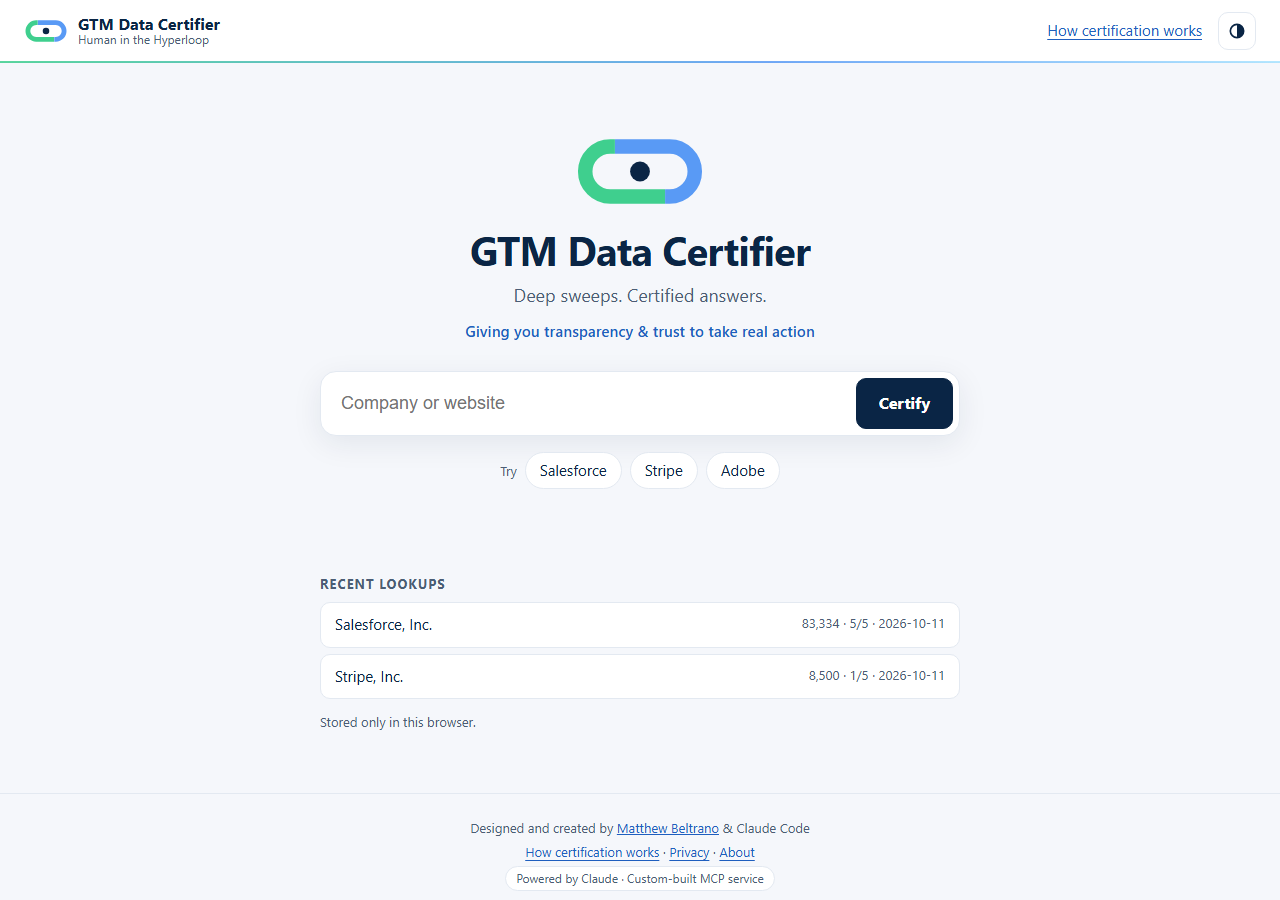
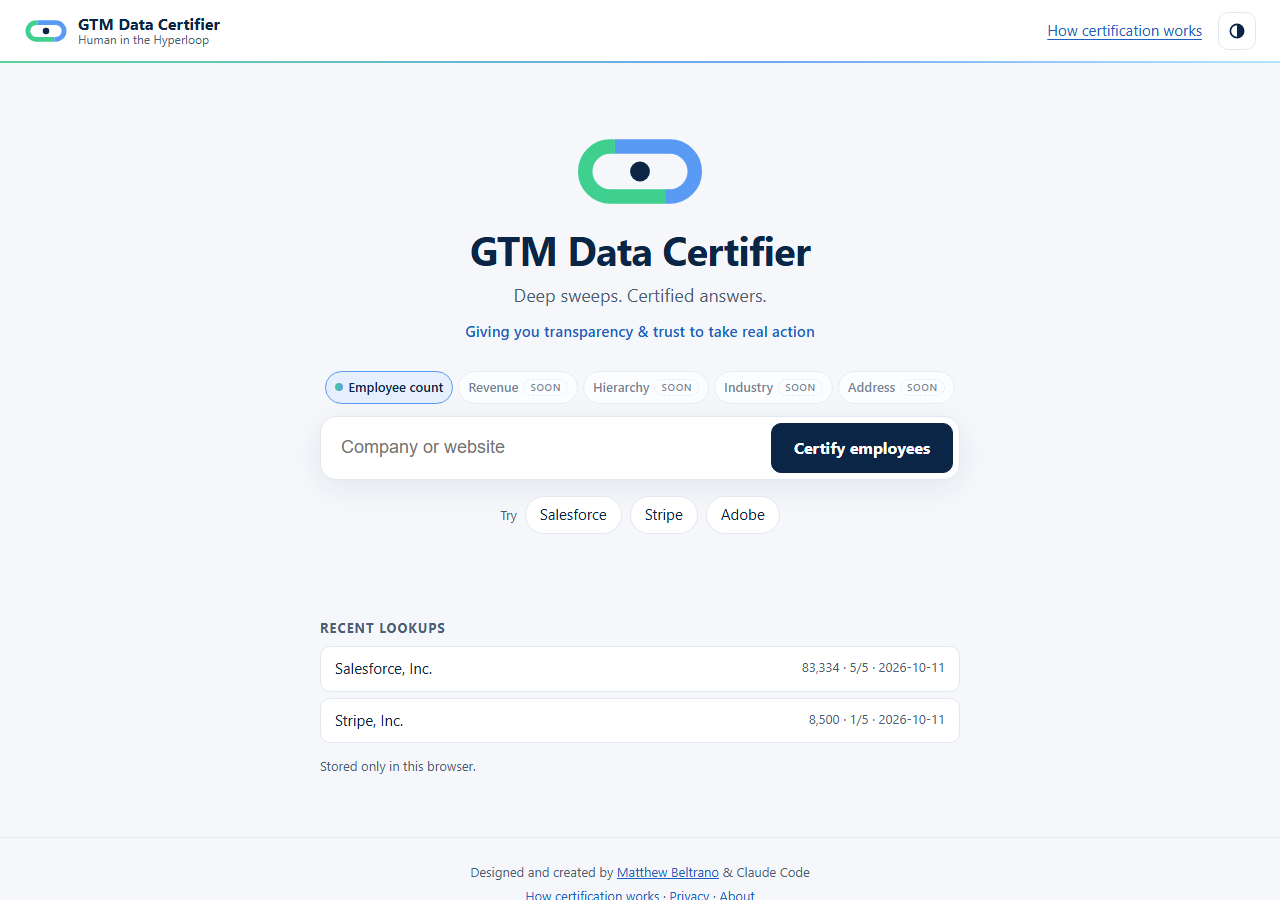
Fix extraction schema too large for the API; confirm-page progress; employee-count framing
- document_type is a plain string (normalized in code) and publisher comes
  from the URL: the 17-value enum pushed the structured-output grammar over
  the API limit, failing every lookup (400 'compiled grammar is too large')
- Offline schema-size guard and a live compile test
- Confirm page: 'Finding ...' progress, latest search wins, no double submits
- Home: Employee count pill (Revenue/Hierarchy/Industry/Address soon),
  'Certify employees' button
- Back after Search another company restores the last result

diff --git a/src/certifier/static/app.js b/src/certifier/static/app.js
@@ -45,8 +45,8 @@
   window.addEventListener("popstate", function (e) {
     var st = e.state || { view: "home" };
     cancelLookup();
-    if (st.view === "confirm" && state.candidates) { renderCandidates(state.candidates); show("confirm"); }
-    else if (st.view === "result" && st.qid && state.current && state.current.query_id === st.qid) showResult(state.current, true);
+    if (st.view === "confirm" && state.candidates) { found(state.query, state.candidates); show("confirm"); }
+    else if (st.view === "result" && st.qid && state.last && state.last.query_id === st.qid) showResult(state.last, true);
     else if (st.view === "result" && st.qid && st.qid !== "demo") openStored(st.qid, true);
     else show("home");
   });
@@ -58,6 +58,7 @@
   function reset(keepQuery) {
     cancelLookup();
     state.current = null; state.candidate = null; state.candidates = null; state.rating = null;
+    state.searchSeq = (state.searchSeq || 0) + 1; state.searching = null; clearInterval(findTimer);
     $("q").value = keepQuery ? state.query : "";
     $("candidates").textContent = ""; $("stages").textContent = ""; $("result-card").textContent = "";
     say("home-status", ""); say("result-status", "");
@@ -114,6 +115,10 @@
   }
 
   // ---------- home ----------
+  // Only employee count is certified today; the other metrics say so instead of doing nothing.
+  Array.prototype.forEach.call(document.querySelectorAll(".metric.soon"), function (b) {
+    b.addEventListener("click", function () { say("home-status", b.getAttribute("data-soon") + " certification is coming soon. Today GTM Data Certifier certifies employee count."); });
+  });
   $("search-form").addEventListener("submit", function (e) { e.preventDefault(); search($("q").value); });
   Array.prototype.forEach.call(document.querySelectorAll("[data-example]"), function (b) {
     b.addEventListener("click", function () { $("q").value = b.getAttribute("data-example"); search(b.getAttribute("data-example")); });
@@ -129,19 +134,63 @@
     if (retry) retry(); else if ($("q").value.trim()) search($("q").value);
   });
 
+  // The confirm page shows a "finding" state until the matches arrive; only the latest search may render,
+  // so a double submit (Enter plus a click) can't show one list and then replace it with another.
+  var findTimer = null;
+  function finding(q) {
+    $("confirm-title").textContent = "Finding “" + q + "”…";
+    $("confirm-help").textContent = "Checking official registries and the web for organizations that match.";
+    $("candidates").textContent = "";
+    $("search-again").hidden = true;
+    $("finding").hidden = false;
+    var started = Date.now();
+    clearInterval(findTimer);
+    $("finding-status").textContent = "Searching… usually 5 to 20 seconds";
+    findTimer = setInterval(function () {
+      $("finding-status").textContent = "Searching… " + Math.round((Date.now() - started) / 1000) + " s · usually 5 to 20 seconds";
+    }, 1000);
+  }
+  function found(q, list) {
+    clearInterval(findTimer);
+    $("finding").hidden = true;
+    $("search-again").hidden = false;
+    $("confirm-title").textContent = "Which one do you mean?";
+    $("confirm-help").textContent = "Found " + list.length + " match" + (list.length === 1 ? "" : "es") + " for “" + q +
+      "”. Choose the organization to certify; one lookup covers one organization.";
+    renderCandidates(list);
+    $("finding-status").textContent = "Done: " + list.length + " match" + (list.length === 1 ? "" : "es") + " found.";
+  }
   function search(q) {
     q = (q || "").trim();
     if (!q) { say("home-status", "Enter a company name or website.", true); $("q").focus(); return; }
+    if (state.searching === q) return;  // the same search is already running
     state.query = q;
     if (!code()) { state.retry = function () { search(q); }; needCode(); return; }
-    say("home-status", "Finding matching organizations…");
+    var seq = state.searchSeq = (state.searchSeq || 0) + 1;
+    state.searching = q;
+    say("home-status", "");
+    finding(q);
+    go("confirm");
     api("/api/find", { method: "POST", body: { query: q } }).then(function (d) {
-      say("home-status", "");
-      if (!d.candidates.length) { say("home-status", "No matching organization found. Try the website instead (e.g. stripe.com).", true); return; }
+      if (seq !== state.searchSeq) return;
+      state.searching = null;
+      if (!d.candidates.length) {
+        clearInterval(findTimer);
+        history.back();
+        say("home-status", "No matching organization found. Try the website instead (e.g. stripe.com).", true);
+        return;
+      }
       state.candidates = d.candidates;
-      renderCandidates(d.candidates);
-      go("confirm");
-    }).catch(function (err) { if (!handleAuth(err, function () { search(q); })) say("home-status", err.message, true); });
+      found(q, d.candidates);
+      $("confirm-title").focus({ preventScroll: true });
+    }).catch(function (err) {
+      if (seq !== state.searchSeq) return;
+      state.searching = null;
+      clearInterval(findTimer);
+      if (handleAuth(err, function () { search(q); })) return;
+      show("home");
+      say("home-status", err.message, true);
+    });
   }
 
   // ---------- confirm ----------
@@ -327,7 +376,7 @@
 
   // ---------- result ----------
   function showResult(payload, fromHistory) {
-    state.current = payload;
+    state.current = state.last = payload;  // state.last survives Start over, so Back can return to it
     state.rating = null;
     var rec = payload.record;
     GTMCard.render($("result-card"), rec, { actions: false });
@@ -357,6 +406,7 @@
   $("discard").addEventListener("click", function () {
     var cur = state.current;
     if (cur) put("gtm_recent", get("gtm_recent", []).filter(function (r) { return r.id !== cur.query_id; }));
+    state.last = null;
     reset(false);
     say("home-status", "Removed from Recent lookups.");
   });
@@ -456,7 +506,7 @@
       state.candidates = [
         { name: "Stripe, Inc.", website: "https://stripe.com", hq: "South San Francisco, CA, USA", description: "Online payments infrastructure for businesses.", org_type: "private_company" },
         { name: "Stripe Payments Europe, Ltd.", website: "https://stripe.com/ie", hq: "Dublin, Ireland", description: "European operating subsidiary of Stripe.", is_subsidiary: true, legal_parent: "Stripe, Inc." }];
-      renderCandidates(state.candidates);
+      if (p.get("stage") === "finding") finding("Disney"); else found("Stripe", state.candidates);
       show("confirm");
     } else if (view === "expedition") {
       var theme = THEMES.filter(function (t) { return t.id === p.get("theme"); })[0] || THEMES[0];

diff --git a/src/certifier/static/index.html b/src/certifier/static/index.html
@@ -35,10 +35,17 @@
         <h1 id="home-title">GTM Data Certifier</h1>
         <p class="tagline">__TAGLINE__</p>
         <p class="mission">Giving you transparency &amp; trust to take real action</p>
+        <div class="metrics" role="group" aria-label="What to certify">
+          <button type="button" class="metric on" aria-pressed="true"><span class="m-dot" aria-hidden="true"></span>Employee count</button>
+          <button type="button" class="metric soon" aria-disabled="true" data-soon="Revenue">Revenue <em>soon</em></button>
+          <button type="button" class="metric soon" aria-disabled="true" data-soon="Company hierarchy">Hierarchy <em>soon</em></button>
+          <button type="button" class="metric soon" aria-disabled="true" data-soon="Industry">Industry <em>soon</em></button>
+          <button type="button" class="metric soon" aria-disabled="true" data-soon="Address">Address <em>soon</em></button>
+        </div>
         <form id="search-form" class="search" role="search" autocomplete="off">
-          <label class="sr-only" for="q">Company name or website</label>
+          <label class="sr-only" for="q">Company name or website to certify its employee count</label>
           <input id="q" name="q" type="search" placeholder="Company or website" required maxlength="120">
-          <button class="primary" type="submit">Certify</button>
+          <button class="primary" type="submit">Certify<span class="btn-more"> employees</span></button>
         </form>
         <div class="chips" aria-label="Examples">
           <span class="muted small">Try</span>
@@ -67,7 +74,11 @@
   <!-- 2. Confirm -->
   <section id="view-confirm" class="view" aria-labelledby="confirm-title" hidden>
     <h1 id="confirm-title" class="view-title">Which one do you mean?</h1>
-    <p class="muted">Choose the organization to certify. One lookup covers one organization.</p>
+    <p id="confirm-help" class="muted">Choose the organization to certify. One lookup covers one organization.</p>
+    <div id="finding" class="finding" hidden>
+      <div class="track searching" aria-hidden="true"><span class="pod"></span></div>
+      <p id="finding-status" class="small muted" role="status" aria-live="polite"></p>
+    </div>
     <div id="candidates" class="candidates"></div>
     <p><button type="button" class="link" id="search-again">Not the right one? Search again</button></p>
   </section>

diff --git a/src/certifier/static/app.css b/src/certifier/static/app.css
@@ -227,3 +227,22 @@ code { font-size: 13px; padding: 1px 5px; border-radius: 4px; background: var(--
 /* Mission line */
 .mission { margin: -18px 0 28px; font-size: 15px; font-weight: 600; letter-spacing: .01em; color: var(--accent); }
 .about-mission { margin: 0 0 12px; font-size: 16px; }
+
+/* Confirm page: finding matches */
+.finding { margin: 18px 0 8px; }
+.finding .track { margin: 0 0 10px; max-width: none; }
+.track.searching .pod { animation: pod-search 1.8s ease-in-out infinite alternate; }
+@keyframes pod-search { from { left: 4%; } to { left: 96%; } }
+@media (prefers-reduced-motion: reduce) { .track.searching .pod { animation: none; left: 50%; } }
+
+/* What to certify: employee count today, more soon */
+.metrics { display: flex; flex-wrap: wrap; justify-content: center; gap: 5px; margin: 0 -24px 12px; }
+.metric { display: inline-flex; align-items: center; gap: 5px; padding: 5px 9px; border-radius: 999px; font-size: 13px; font-weight: 600;
+  border: 1px solid var(--line); background: var(--card); color: var(--text); cursor: default; }
+.metric.on { border-color: var(--loop-blue); background: var(--accent-soft); }
+.metric .m-dot { width: 8px; height: 8px; border-radius: 50%; background: linear-gradient(90deg, var(--loop-green), var(--loop-blue)); }
+.metric.soon { color: var(--muted); opacity: .75; cursor: not-allowed; font-weight: 500; }
+.metric.soon em { font-style: normal; font-size: 10px; text-transform: uppercase; letter-spacing: .06em; padding: 0 6px; border-radius: 999px;
+  border: 1px dashed var(--line); }
+@media (max-width: 520px) { .btn-more { display: none; } }
+@media (max-width: 760px) { .metrics { margin: 0 0 12px; } }

diff --git a/src/certifier/research.py b/src/certifier/research.py
@@ -44,17 +44,16 @@ class XSource(BaseModel):
                                               "it describes (e.g. 'before taking the layoffs into account')")
     restates: bool = Field(description="True if this source repeats another source's figure (e.g. Wikipedia, "
                                        "Bullfincher or an aggregator quoting the 10-K) rather than reporting its own")
-    document_type: Literal["10-K", "20-F", "40-F", "annual_report", "acfr", "fact_sheet", "form_990", "ipeds",
-                           "non_financial_report", "press_release", "company_document", "website_about",
-                           "website_other", "linkedin_description", "news", "data_provider", "other"] | None = Field(
-        default=None,
-        description="What the document is. annual_report: full annual/integrated report with financial statements; "
-                    "acfr: a government's Annual Comprehensive Financial Report; fact_sheet: the company's official "
-                    "Corporate Fact Sheet or 'company facts' page/PDF; non_financial_report: impact/sustainability/"
-                    "annual review report; company_document: other company-published document (brochure, packet); "
-                    "website_about: the About/Company page; news: a news article; data_provider: a headcount database")
-    publisher: str | None = Field(default=None, description="Outlet or provider name for news and data providers, "
-                                                            "e.g. 'Reuters', 'ZoomInfo'; null otherwise")
+    # A plain string, not an enum, and no separate publisher field: the structured-output grammar sits near the
+    # API's size limit (400 "compiled grammar is too large"). to_source() normalizes this against
+    # taxonomy.DOCUMENT_TYPES; the publisher comes from the URL (taxonomy.publisher_of).
+    document_type: str | None = Field(
+        description="What the document is, one of: 10-K, 20-F, 40-F, annual_report (full annual/integrated report "
+                    "with financial statements), acfr (government Annual Comprehensive Financial Report), fact_sheet "
+                    "(the company's official Corporate Fact Sheet or 'company facts' page/PDF), form_990, ipeds, "
+                    "non_financial_report (impact/sustainability/annual review), press_release, company_document "
+                    "(other company-published document), website_about, website_other, linkedin_description, news, "
+                    "data_provider, other")
     excerpt: str = Field(description="Verbatim quote containing the figure")
     context: str = Field(description="Detailed excerpt: the verbatim passage around the figure, 2-4 sentences")
     section: str | None = Field(description="Heading or part of the page/document where the figure appears, "
@@ -301,11 +300,22 @@ def to_source(x: XSource) -> Source:
         if x.as_of_date is None and x.as_of_estimate is not None else None,
         published_date=x.published_date,
         modified_date=x.modified_date, restates=x.restates, predates_change=x.predates_change,
-        document_type=x.document_type, publisher=x.publisher,
+        document_type=_document_type(x.document_type),
         contractors_included=x.contractors_included or None,
         separately_reported={c.category: c.count for c in x.separately_reported} or None,
         notes=[x.note] if x.note else [],
     )
+
+
+def _document_type(value: str | None) -> str | None:
+    """Research's free-text document type, normalized to a taxonomy key (unknown values are inferred later)."""
+    from .taxonomy import DOCUMENT_TYPES
+
+    if not value:
+        return None
+    key = value.strip().lower().replace(" ", "_").replace("-", "_")
+    key = {"10_k": "10-K", "20_f": "20-F", "40_f": "40-F", "form990": "form_990", "990": "form_990"}.get(key, key)
+    return key if key in DOCUMENT_TYPES else None
 
 
 def _location(x: XSource) -> Location:

diff --git a/tests/test_taxonomy.py b/tests/test_taxonomy.py
@@ -129,3 +129,33 @@ def test_record_json_carries_labels_for_export():
 def certify_one():
     from certifier.models import Entity
     return certify(Entity(name="Acme"), [src(4, 900, url="https://acme.example/about")], lookup_date=LOOKUP)
+
+
+def test_extraction_schema_stays_small_for_structured_outputs():
+    """A 17-value enum in XSource made the API reject every extraction ("compiled grammar is too large").
+    Keep enums short and every field required (nullable instead of optional), as the API compiles them all."""
+    from certifier.research import Extraction
+
+    schema = Extraction.model_json_schema()
+
+    def walk(node, path="Extraction"):
+        if isinstance(node, dict):
+            if "enum" in node:
+                assert len(node["enum"]) <= 8, f"{path}: enum of {len(node['enum'])} values"
+            if node.get("type") == "object" and "properties" in node:
+                missing = set(node["properties"]) - set(node.get("required", []))
+                assert not missing, f"{path}: optional fields {missing}"
+            for k, v in node.items():
+                walk(v, f"{path}.{k}")
+        elif isinstance(node, list):
+            for v in node:
+                walk(v, path)
+    walk(schema)
+    for name, sub in schema.get("$defs", {}).items():
+        walk(sub, name)
+
+
+def test_research_document_type_is_normalized():
+    from certifier.research import _document_type
+    assert _document_type("Fact Sheet") == "fact_sheet" and _document_type("10-K") == "10-K"
+    assert _document_type("press release") == "press_release" and _document_type("blog") is None

diff --git a/tests/test_live_schema.py b/tests/test_live_schema.py
@@ -1,0 +1,21 @@
+"""Live check that the extraction schema compiles under the API's structured-output grammar limit.
+Near-zero cost (tiny prompt). Run with RUN_LIVE=1 before shipping any change to research.py's schemas."""
+
+import os
+
+import pytest
+
+pytestmark = pytest.mark.skipif(os.environ.get("RUN_LIVE") != "1", reason="live API test; set RUN_LIVE=1")
+
+
+def test_extraction_schema_compiles():
+    from certifier.config import load_env
+    from certifier.llm import Claude, Spend
+    from certifier.policy import default_policy
+    from certifier.research import Extraction
+
+    load_env()
+    policy = default_policy()
+    result = Claude(policy).extract("Return empty lists and the default values.", "No sources were found.",
+                                    Extraction, Spend(policy))
+    assert result is not None and result.sources == []

diff --git a/tests/test_web.py b/tests/test_web.py
@@ -377,6 +377,8 @@ def test_page_has_start_over_powered_by_mcp_help_and_glossary(client):
     assert 'data-action="reset"' in page and "Search another company" in page and 'id="discard"' in page
     assert "Not the right one? Search again" in page
     assert "Giving you transparency &amp; trust to take real action" in page
+    assert "Employee count" in page and "Certify<span class=\"btn-more\"> employees</span>" in page
+    assert page.count('aria-disabled="true" data-soon=') == 4
     assert "Powered by Claude · Custom-built MCP service" in page and "Model Context Protocol (MCP)" in page
     assert "http://localhost/mcp" in page and "Add custom connector" in page
     assert "Corporate Fact Sheet" in page and "The annual report U.S. public companies must file with the SEC" in page

diff --git a/tests/test_stripe_rules.py b/tests/test_stripe_rules.py
@@ -35,8 +35,9 @@ def test_rule1_research_estimate_is_kept():
                 published_date=date(2025, 3, 1), modified_date=None, restates=False, predates_change=False,
                 excerpt="about 8,500 employees",
                 context="about 8,500 employees", section=None, page_number=None, contractors_included=None,
-                separately_reported=[], note="")
+                separately_reported=[], note="", document_type="News")
     s = to_source(x)
+    assert s.document_type == "news"
     assert (s.as_of_date, s.as_of_estimated, s.as_of_basis) == (date(2025, 2, 15), True, "says 'as of early 2025'")
 
 

diff --git a/DECISIONS.md b/DECISIONS.md
@@ -443,3 +443,29 @@ On review the faint cards looked static (they drifted about 15 px over 26-34 sec
 
 ### D63. Mission line
 "Giving you transparency & trust to take real action" sits under the tagline on the home page and opens the About panel. It uses the accent color rather than a green-blue gradient, because loop green on white fails contrast (about 2:1).
+
+### D64. Hotfix: extraction schema too large for the API (production outage)
+- **What happened:** D55 added a 17-value `document_type` enum and an optional `publisher` to the extraction schema. The API compiles strict structured-output schemas into a grammar, and this one passed its size limit. Every new lookup failed at the extraction step with 400 "compiled grammar is too large" (the Disney report).
+- **Fix:**
+  - `document_type` is a plain nullable string, normalized in code
+  - `publisher` is gone; it comes from the URL
+  - probes against the live API showed the schema sits right at the limit: either field alone compiles, both don't
+- **Guards:**
+  - an offline test fails on any enum over 8 values or any optional field in the schema
+  - a live test (`RUN_LIVE=1 pytest tests/test_live_schema.py`, near-zero cost) compiles the real schema; run it before shipping any schema change
+- **Verified:** live with Disney: 231,000, 4/5, Tier 1 · Financial Filing · 10-K, $0.19.
+- **Headroom:** there's little left. Adding extraction fields will need room made first, e.g. by turning date fields into strings.
+
+### D65. Confirm page shows its progress; double submits can't race
+"Finding '<query>'..." now shows at once, with the hyperloop pod sweeping and an elapsed timer, until the matches arrive. Then it says "Found N matches for ...". Only the latest search may render, and the same search can't start twice. Before this, Enter plus a click could show 2 matches and then replace them with 4.
+
+### D66. The home page says it certifies employee count
+Pills above the search box read **Employee count** (selected), then Revenue, Hierarchy, Industry and Address, greyed out with a "soon" tag. Clicking one says it's coming soon. The button reads "Certify employees" ("Certify" on phones, where the pills carry the meaning). Pills keep every option visible without opening a menu, which a dropdown wouldn't.
+
+### D67. Interactive flows are now tested in a real browser
+A Playwright script clicks through the demo with the installed Edge:
+- Copy for CRM, the trust-strip jumps, expanding a finding and "What is this?"
+- Search another company, Back, Discard and Search again
+- the finding state, the soon pills, and no page errors
+
+It found one bug: Back after "Search another company" no longer restored the result. Fixed by keeping the last result for history.
